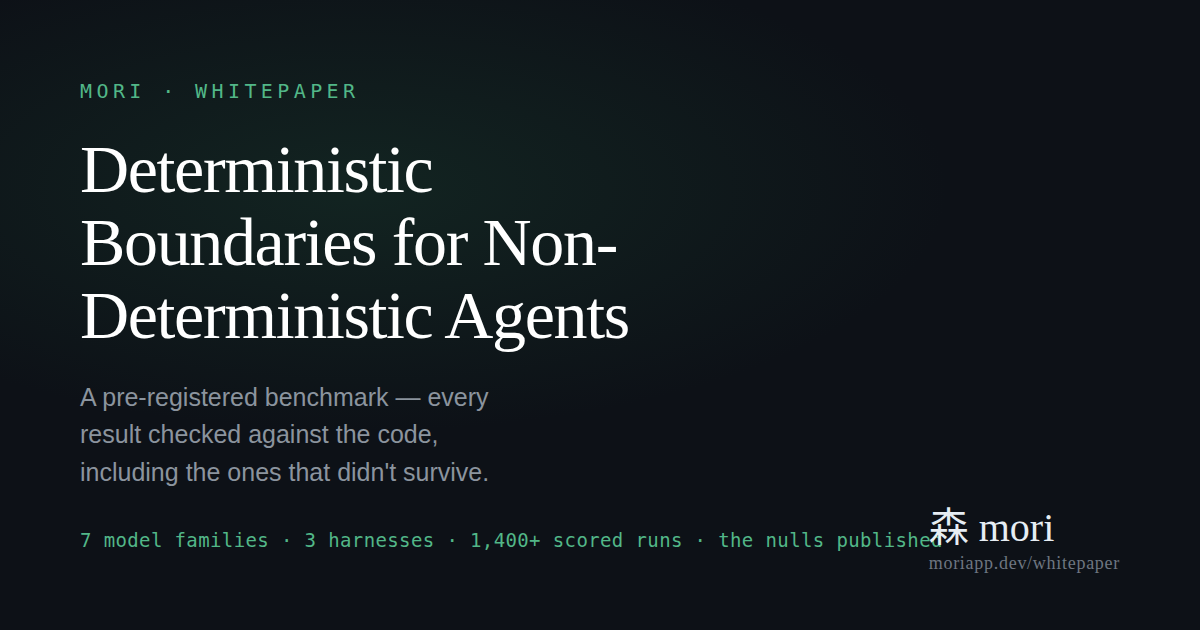
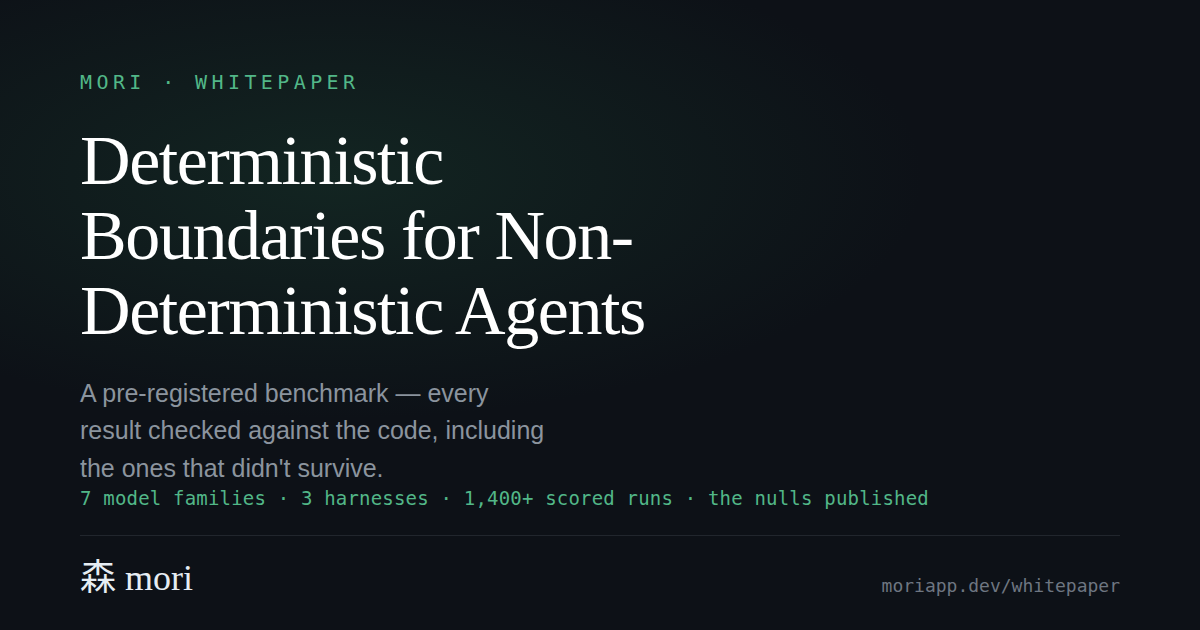
social card: fix footer/stats collision

diff --git a/card.html b/card.html
@@ -4,19 +4,26 @@
 *{margin:0;padding:0;box-sizing:border-box;}
 html,body{width:1200px;height:630px;}
 body{background:#0d1117;color:#e6edf3;font-family:'DM Sans',sans-serif;font-weight:300;
-  display:flex;flex-direction:column;justify-content:center;padding:72px 80px;position:relative;overflow:hidden;}
-body::before{content:'';position:absolute;inset:0;background:radial-gradient(ellipse 70% 55% at 30% 30%,rgba(27,67,50,.38),transparent 70%);}
-.k{font-family:'JetBrains Mono',monospace;font-size:20px;letter-spacing:.22em;color:#52b788;text-transform:uppercase;margin-bottom:30px;position:relative;}
-h1{font-family:'Fraunces',Georgia,serif;font-weight:300;font-size:68px;line-height:1.08;letter-spacing:-.02em;color:#fff;margin-bottom:26px;position:relative;max-width:18ch;}
-.sub{font-size:25px;color:#8b949e;max-width:30ch;line-height:1.5;position:relative;margin-bottom:38px;}
-.stats{font-family:'JetBrains Mono',monospace;font-size:19px;color:#52b788;letter-spacing:.02em;position:relative;}
-.brand{position:absolute;bottom:56px;right:80px;font-family:'Fraunces',serif;font-size:40px;color:#e6edf3;}
-.brand small{font-family:'DM Sans';font-size:18px;color:#6e7681;display:block;text-align:right;font-weight:300;letter-spacing:.04em;}
+  display:flex;flex-direction:column;justify-content:space-between;padding:70px 80px;position:relative;overflow:hidden;}
+body::before{content:'';position:absolute;inset:0;background:radial-gradient(ellipse 70% 55% at 28% 28%,rgba(27,67,50,.40),transparent 70%);}
+.top{position:relative;}
+.k{font-family:'JetBrains Mono',monospace;font-size:20px;letter-spacing:.22em;color:#52b788;text-transform:uppercase;margin-bottom:30px;}
+h1{font-family:'Fraunces',Georgia,serif;font-weight:300;font-size:70px;line-height:1.07;letter-spacing:-.02em;color:#fff;margin-bottom:26px;max-width:17ch;}
+.sub{font-size:25px;color:#8b949e;max-width:34ch;line-height:1.5;}
+.bot{position:relative;}
+.stats{font-family:'JetBrains Mono',monospace;font-size:19px;color:#52b788;letter-spacing:.01em;margin-bottom:26px;}
+.foot{display:flex;justify-content:space-between;align-items:flex-end;border-top:1px solid #21262d;padding-top:24px;}
+.brand{font-family:'Fraunces',serif;font-size:36px;color:#e6edf3;line-height:1;}
+.url{font-family:'JetBrains Mono',monospace;font-size:18px;color:#6e7681;}
 </style></head>
 <body>
-  <div class="k">mori · whitepaper</div>
-  <h1>Deterministic Boundaries for Non-Deterministic Agents</h1>
-  <div class="sub">A pre-registered benchmark — every result checked against the code, including the ones that didn't survive.</div>
-  <div class="stats">7 model families · 3 harnesses · 1,400+ scored runs · the nulls published</div>
-  <div class="brand">森 mori<small>moriapp.dev/whitepaper</small></div>
+  <div class="top">
+    <div class="k">mori · whitepaper</div>
+    <h1>Deterministic Boundaries for Non-Deterministic Agents</h1>
+    <div class="sub">A pre-registered benchmark — every result checked against the code, including the ones that didn't survive.</div>
+  </div>
+  <div class="bot">
+    <div class="stats">7 model families · 3 harnesses · 1,400+ scored runs · the nulls published</div>
+    <div class="foot"><div class="brand">森 mori</div><div class="url">moriapp.dev/whitepaper</div></div>
+  </div>
 </body></html>
